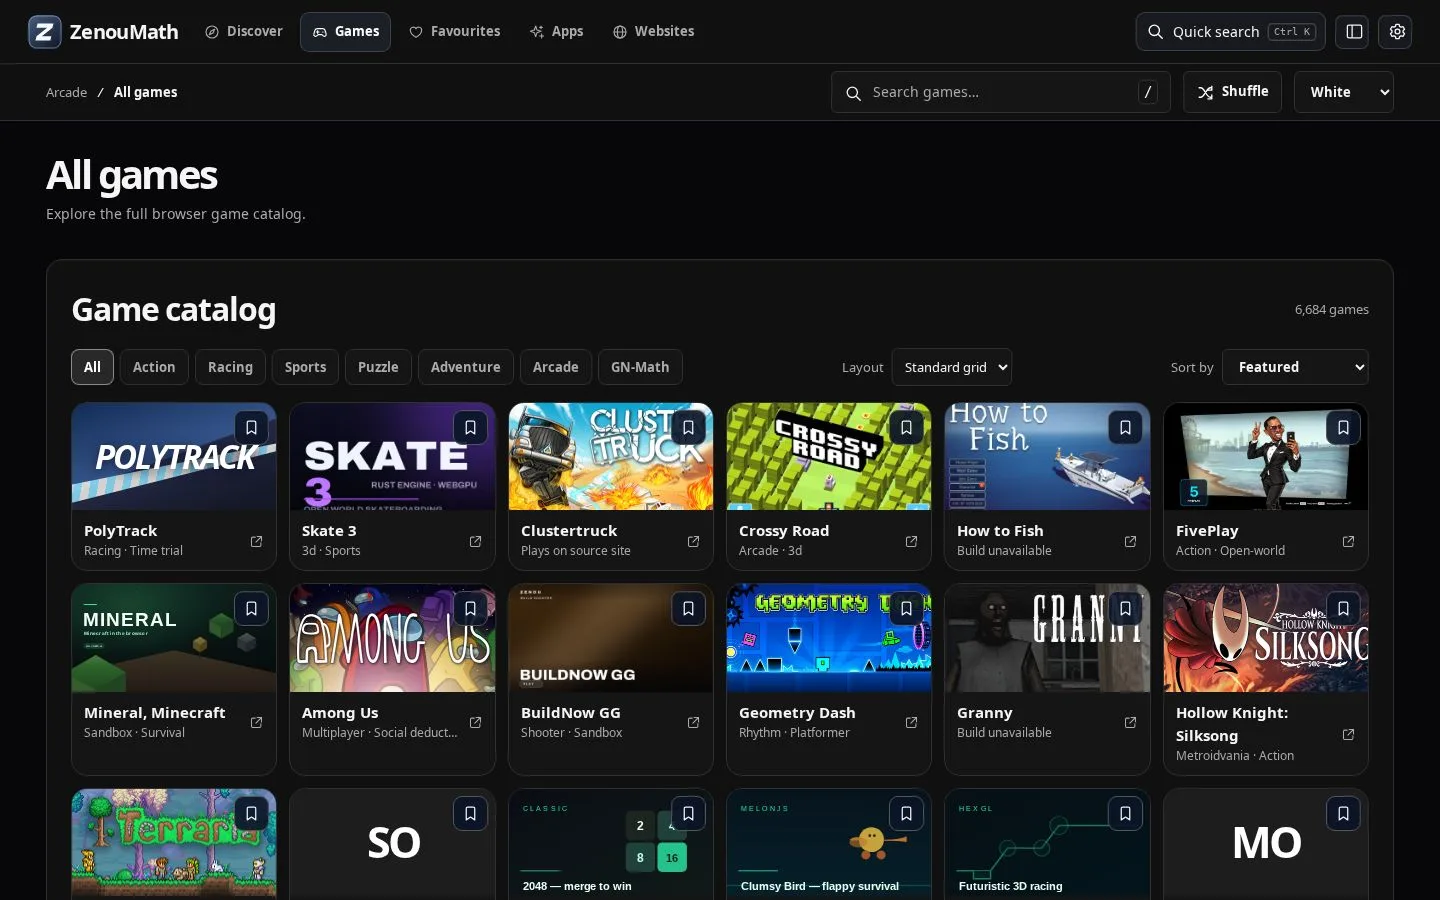
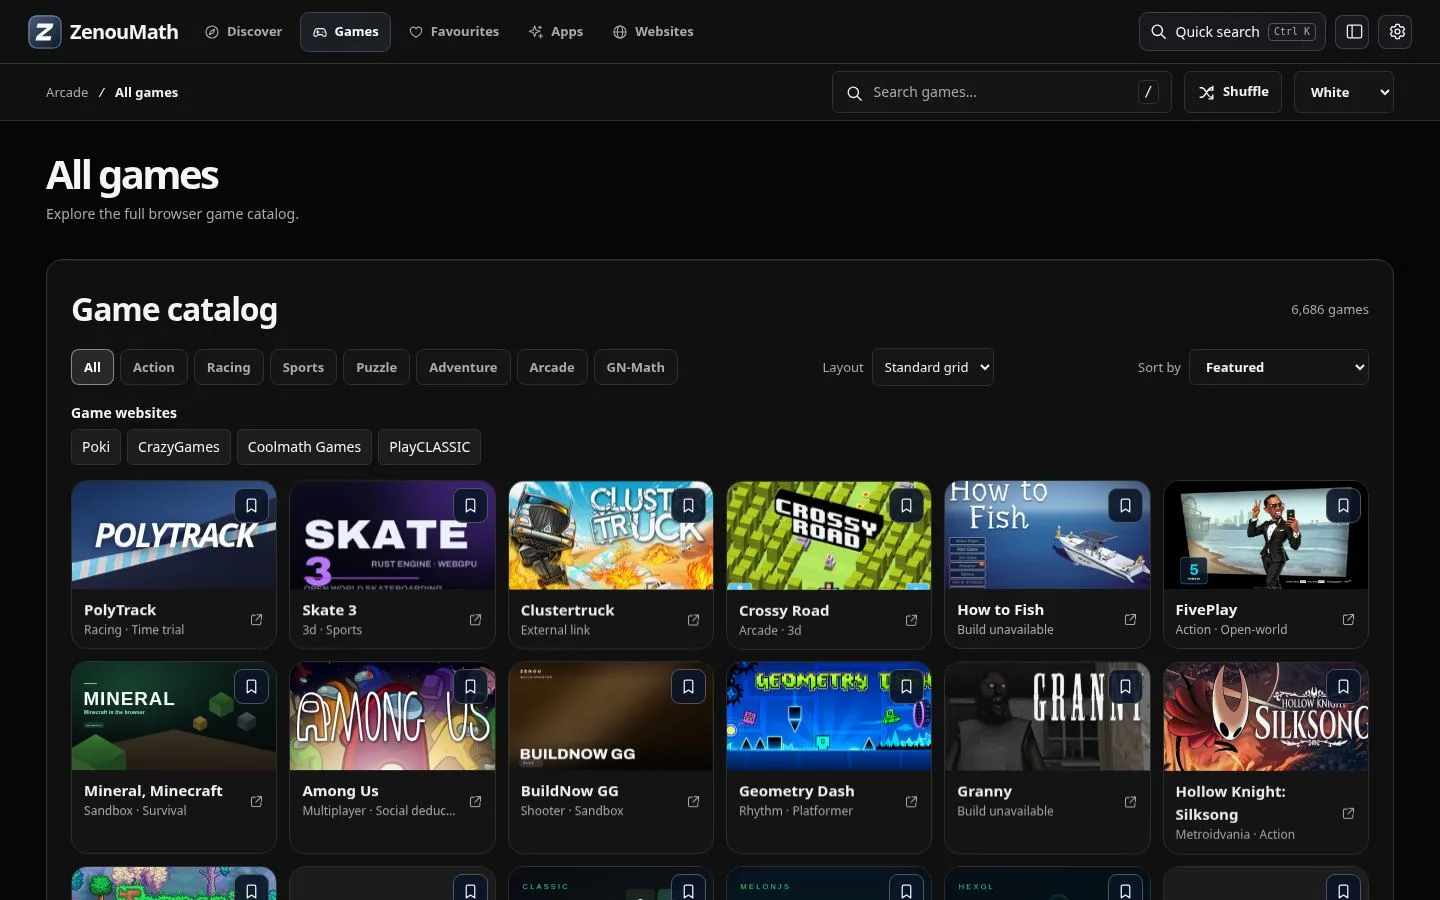
Share portal listings and add game launch details (#2)

diff --git a/arcade.js b/arcade.js
@@ -1,3 +1,4 @@
+import { gamePortals } from '/catalog/portals.js';
 import { paintQueue, queueButton, watchQueue } from '/js/play-later.js';
 
 const $ = id => document.getElementById(id);
@@ -129,12 +130,29 @@ function card(game) {
   } else {
     showFallback();
   }
+  const action = document.createElement('span');
+  action.className = 'tile-launch';
+  action.textContent = game.availability ? 'View details' : 'Play';
+  link.querySelector('.art').append(action);
   link.querySelector('h3').textContent = game.t;
   link.querySelector('small').textContent = game.availability === 'unavailable' ? 'Build unavailable'
-    : game.availability === 'external' ? 'Plays on source site' : (game.cs || []).slice(0, 2).map(titleCase).join(' · ');
+    : game.availability === 'external' ? 'External link' : (game.cs || []).slice(0, 2).map(titleCase).join(' · ');
   const tile = document.createElement('div');
   tile.className = 'play-later-card';
   tile.append(link, queueButton(game, { notify: message => { $('discover-notice').textContent = message; } }));
+  const info = document.createElement('button');
+  info.type = 'button';
+  info.className = 'card-info';
+  info.setAttribute('aria-label', 'About ' + game.t);
+  info.innerHTML = icon('info');
+  info.onclick = () => {
+    $('detailsTitle').textContent = game.t;
+    $('detailsCategory').textContent = (game.cs || []).map(titleCase).join(' · ');
+    $('detailsBody').textContent = game.note || game.dep || 'See the game page for launch options.';
+    $('detailsPlay').href = gameUrl(game);
+    $('gameDetails').showModal();
+  };
+  tile.append(info);
   return tile;
 }
 
@@ -174,7 +192,7 @@ function renderCatalog() {
   const pageTitle = query ? 'Search results' : genre ? titleCase(genre) : browsing ? 'All games' : 'Discover';
 
   if ($('query').value !== input) $('query').value = input;
-  $('sort').value = ['az', 'za', 'new'].includes(sort) ? sort : '';
+  $('sort').value = ['az', 'za', 'new', 'recent'].includes(sort) ? sort : '';
   $('spot').hidden = browsing;
   $('discover-actions').hidden = browsing;
   $('discover-intro').classList.toggle('discover-home', !browsing);
@@ -185,6 +203,16 @@ function renderCatalog() {
       : browsing ? 'Explore the full browser game catalog.' : 'Find your next favorite browser game.';
   $('sectionName').textContent = browsing ? 'Game catalog' : 'Browse games';
 
+  const sites = genre ? [] : gamePortals.filter(site => site.label.toLowerCase().includes(query));
+  $('gameSites').hidden = !sites.length;
+  $('portalLinks').replaceChildren(...sites.map(site => {
+    const link = document.createElement('a');
+    link.href = site.url;
+    link.rel = 'noopener noreferrer';
+    link.target = '_blank';
+    link.textContent = site.label;
+    return link;
+  }));
   const labels = ['All', ...genres];
   if (genre && !labels.some(label => label.toLowerCase() === genre)) labels.push(titleCase(genre));
   const filters = $('filters');
@@ -224,6 +252,12 @@ function renderCatalog() {
   if (sort === 'az') matched.sort((a, b) => collator.compare(a.t, b.t));
   if (sort === 'za') matched.sort((a, b) => collator.compare(b.t, a.t));
 
+  if (sort === 'recent') {
+    let history = [];
+    try { history = JSON.parse(localStorage.getItem('zenou_recent')) || []; } catch {}
+    const times = new Map(Array.isArray(history) ? history.filter(Boolean).map(row => [row.id, row.ts]) : []);
+    matched.sort((a, b) => (times.get(b.id) || 0) - (times.get(a.id) || 0));
+  }
   $('count').textContent = loadState === 'loading' ? 'Loading games…'
     : loadState === 'error' ? '' : matched.length.toLocaleString() + (matched.length === 1 ? ' game' : ' games');
   $('grid').replaceChildren();

diff --git a/css/interface.css b/css/interface.css
@@ -577,3 +577,19 @@ html[data-site-masthead] .site-masthead.za-brand-row { display: flex; flex-direc
 html[data-site-masthead] .site-masthead .quick-launch { margin: 0; }
 body.arcade-discover .catalog, body[data-arcade-page] :is(.page-head,.ai-hero,.web-hero,.social-hero,.movies-hero,.dw-head) { background: var(--za-nav); }
 body.arcade-discover #page-title { font-size: clamp(26px,3.2vw,40px); }
+
+#gameSites { margin:15px 0; }
+#gameSites h3 { font-size:14px; margin:0 0 6px; }
+#portalLinks { display:flex; flex-wrap:wrap; gap:6px; }
+#portalLinks a, #gameDetails button { padding:6px 10px; color:var(--text); background:var(--surface-2); border:1px solid var(--line); border-radius:5px; }
+.card-info { position:absolute; left:7px; top:7px; border:1px solid #555; background:#111e; color:#fff; display:grid; place-items:center; width:30px; height:30px; border-radius:6px; }
+.card-info svg { width:17px; height:17px; fill:none; stroke:currentColor; stroke-width:1.6; }
+@media(hover:hover) { .card-info { opacity:0; } .play-later-card:is(:hover,:focus-within) .card-info { opacity:1; } }
+#gameDetails { max-width:min(440px,90vw); color:var(--text); background:#151515; border:1px solid #454545; padding:22px; border-radius:8px; }
+#gameDetails::backdrop { background:#000b; }
+#gameDetails form { display:inline; }
+.tile-launch { position:absolute; bottom:7px; left:7px; background:#101010e8; color:#fff; border:1px solid #666; padding:3px 8px; border-radius:4px; font-size:12px; opacity:0; }
+.card:is(:hover,:focus-visible) .tile-launch { opacity:1; }
+@media(prefers-reduced-motion:no-preference) { .card-info,.tile-launch { transition:opacity .15s ease; } }
+
+body.arcade-discover .discover-home { min-height:auto; padding:0; border:0; background:none; box-shadow:none; }

diff --git a/index.html b/index.html
@@ -33,7 +33,7 @@
     }
   </script>
   <script src="/js/consent.js" defer></script>
-  <script type="module" src="/arcade.js?v=discover-8"></script>
+  <script type="module" src="/arcade.js?v=catalogue-10"></script>
   <script src="/js/arcade-accent.js" defer></script>
   <script src="/js/atmosphere.js?v=blue-shell" defer></script>
   <script src="/js/settings.js?v=blue-shell" defer></script>
@@ -172,11 +172,14 @@
             <select id="sort">
               <option value="">Featured</option>
               <option value="new">Recently added</option>
+              <option value="recent">Recently played first</option>
               <option value="az">Title A–Z</option>
               <option value="za">Title Z–A</option>
             </select>
           </label>
         </div>
+        <section id="gameSites" hidden aria-labelledby="gameSitesHeading"><h3 id="gameSitesHeading">Game websites</h3><div id="portalLinks"></div></section>
+        <dialog id="gameDetails" aria-labelledby="detailsTitle"><h2 id="detailsTitle"></h2><p id="detailsCategory"></p><p id="detailsBody"></p><a class="btn btn-solid" id="detailsPlay">Open game</a> <form method="dialog"><button type="submit" autofocus>Close</button></form></dialog>
         <div class="cards" id="grid"></div>
         <div id="empty" class="empty" hidden>
           <p id="empty-message"></p>

diff --git a/js/web.js b/js/web.js
@@ -1,3 +1,4 @@
+import { gamePortals } from '/catalog/portals.js';
 /* ZenouMath, reference desk.
  *
  * A frame, an address bar and six tabs the visitor binds in Settings. The
@@ -21,10 +22,7 @@
   const HOME_TITLE = 'Reference desk, ZenouMath';
 
   const SITES = [
-    { id: 'poki', label: 'Poki', url: 'https://poki.com/', note: 'Browse games by genre or developer.', kind: 'portal', glyph: 'P' },
-    { id: 'crazygames', label: 'CrazyGames', url: 'https://www.crazygames.com/', note: 'Single-player and multiplayer browser games.', kind: 'portal', glyph: 'C' },
-    { id: 'coolmathgames', label: 'Coolmath Games', url: 'https://www.coolmathgames.com/', note: 'Logic puzzles, strategy and skill games.', kind: 'portal', glyph: 'C' },
-    { id: 'classicgames', label: 'PlayCLASSIC', url: 'https://playclassic.games/', note: 'Browse a directory of classic computer games.', kind: 'portal', glyph: 'P' },
+    ...gamePortals,
     {
       id: 'rabbits', label: 'Bouncing Rabbits', glyph: 'B',
       url: 'https://bouncingrabbits.cyou/',

diff --git a/js/settings.js b/js/settings.js
@@ -35,7 +35,7 @@
   const PREF_GROUPS = [
     ['gameLayout', 'Game layout', [['compact','Compact'], ['standard','Standard'], ['large','Large'], ['list','List']]],
     ['launchMode', 'Game launch', [['inline','In page'], ['fullscreen','Fullscreen'], ['tab','New tab']]],
-    ['gameSort', 'Default game order', [['featured','Featured'], ['az','A–Z'], ['za','Z–A']]],
+    ['gameSort', 'Default game order', [['featured','Featured'], ['az','A–Z'], ['za','Z–A'], ['new','Recently added'], ['recent','Recently played']]],
     ['glow', 'Glow strength', [['off', 'Off'], ['soft', 'Soft'], ['medium', 'Medium'], ['strong', 'Strong']]],
     ['radius', 'Corner style', [['sharp', 'Sharp'], ['soft', 'Soft'], ['round', 'Round']]],
     ['density', 'Card density', [['cozy', 'Cozy'], ['compact', 'Compact']]],

diff --git a/catalog/portals.js b/catalog/portals.js
@@ -1,0 +1,6 @@
+export const gamePortals = [
+    { id: 'poki', label: 'Poki', url: 'https://poki.com/', note: 'Browse games by genre or developer.', kind: 'portal', glyph: 'P' },
+    { id: 'crazygames', label: 'CrazyGames', url: 'https://www.crazygames.com/', note: 'Single-player and multiplayer browser games.', kind: 'portal', glyph: 'C' },
+    { id: 'coolmathgames', label: 'Coolmath Games', url: 'https://www.coolmathgames.com/', note: 'Logic puzzles, strategy and skill games.', kind: 'portal', glyph: 'C' },
+    { id: 'classicgames', label: 'PlayCLASSIC', url: 'https://playclassic.games/', note: 'Browse a directory of classic computer games.', kind: 'portal', glyph: 'P' },
+];

diff --git a/js/atmosphere.js b/js/atmosphere.js
@@ -204,7 +204,7 @@
     if (image) root.style.setProperty('--custom-bg', `url("${image}")`);
     else root.style.removeProperty('--custom-bg');
 
-    root.dataset.bg = preset ? 'custom' : prefs.bg || 'aurora';
+    root.dataset.bg = preset ? 'custom' : prefs.bg || 'plain';
     root.dataset.bgEffects = prefs.bgEffects || 'none';
     root.dataset.motion = prefs.motion || 'full';
     const dim = Number(prefs.bgDim ?? 45);

diff --git a/web/index.html b/web/index.html
@@ -154,7 +154,7 @@
 <script src="/js/music-player.js" defer></script>
 <script src="/js/settings.js?v=blue-shell" defer></script>
 <script src="/js/zenou-plus.js" defer></script>
-<script src="/js/web.js?v=2" defer></script>
+<script type="module" src="/js/web.js?v=3"></script>
 <script src="/js/consent.js" defer></script>
 </body>
 </html>

diff --git a/sw.js b/sw.js
@@ -13,8 +13,9 @@
  * redirect stubs: they shadowed their own directory index on GitHub Pages,
  * so any cached copy of one has to go.
  */
-const CACHE_VERSION = 'zenou-arcade-v21';
+const CACHE_VERSION = 'zenou-arcade-v22-portals';
 const SHELL = [
+  '/catalog/portals.js',
   '/',
   '/css/style.css',
   '/css/arcade-shell.css',

diff --git a/docs/catalogue/README.md b/docs/catalogue/README.md
@@ -40,4 +40,12 @@ The existing API suite passed all 64 tests. A local Chromium browser exercised a
 
 [Desktop screenshot](catalogue-1440.webp) · [Mobile screenshot](catalogue-390.webp)
 
-Production deployment depends on the outstanding game-launch and source checks. A zero-error local test cannot establish the status of every remote game or a production deployment.
+## Bro Blogs launch integration
+
+The four website tiles open an external proxy service on Bro Blogs. Its public frontend shows the outgoing destinations, while the service's internal implementation is unavailable. ZenouMath uses the four underlying portal addresses and opens them in a regular browser tab. Poki, Coolmath Games and PlayCLASSIC returned HTTP 200 during this check. CrazyGames returned HTTP 503.
+
+Of the 289 game rows, 144 point to an iframe launcher, 117 to the standard game launcher, 22 to the Flash launcher, one to the self-hosted launcher and five to other paths. A loader name describes the entry point and does not establish rights to the game content. The public interface renders title search, link tiles, a Play overlay, a separate About action and operator status labels.
+
+The Games page and Web directory now share one [portal catalogue](../../catalog/portals.js). Searching Games filters both portal and game sections. Game cards expose Play or View details on hover or keyboard focus. About opens a native dialog with the game's recorded categories, description and launch link. The games page also supports recently played ordering. These additions reuse the production catalogue, launchers and saved IDs.
+
+The local checks cover the player page and destination for the imported direct links. Full third-party gameplay, every legacy source licence and authenticated account sync are unverified.
